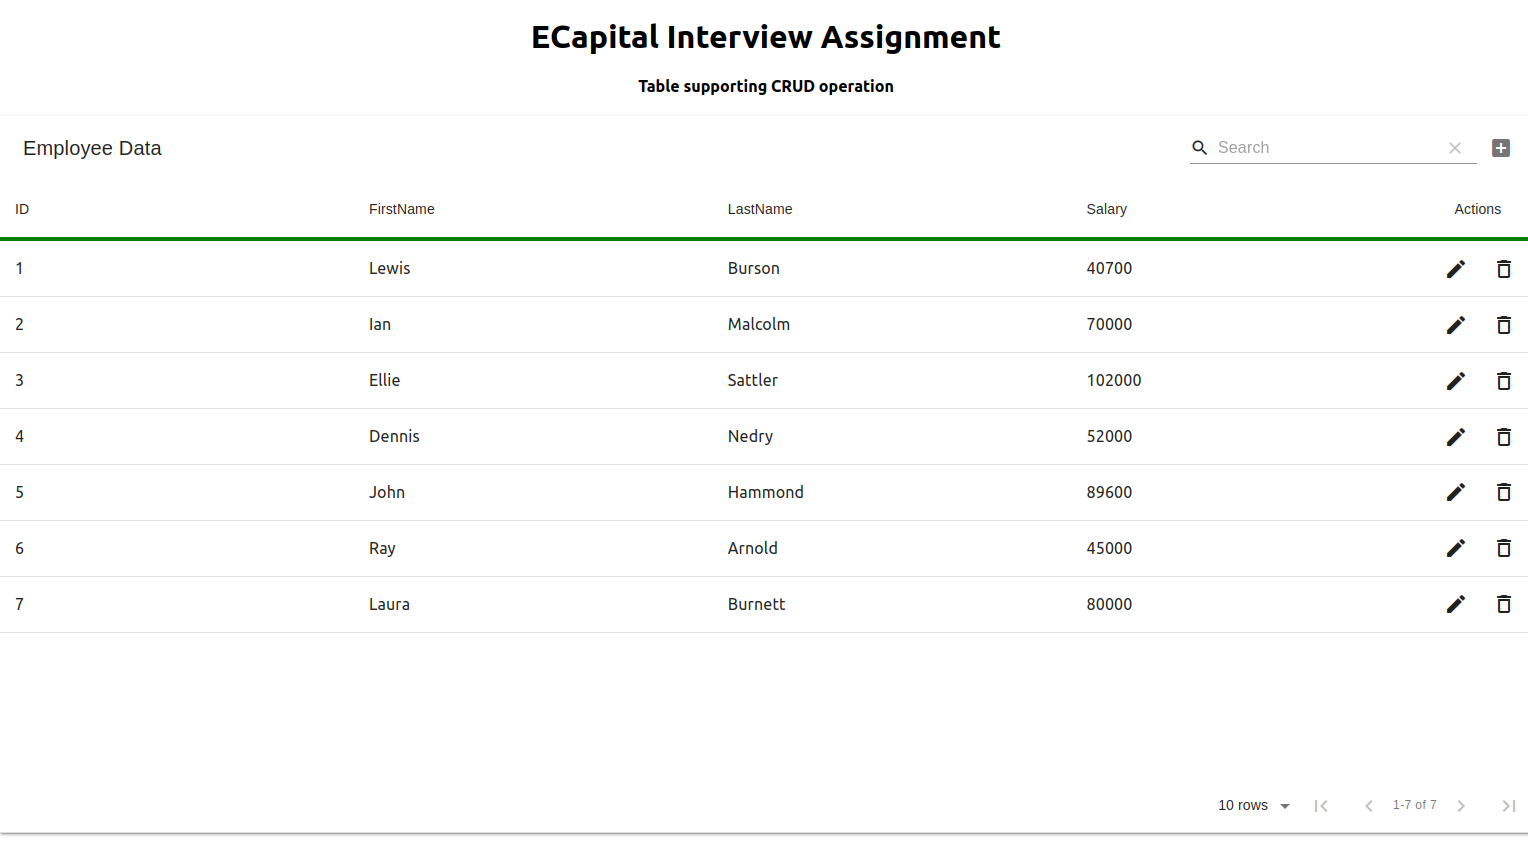
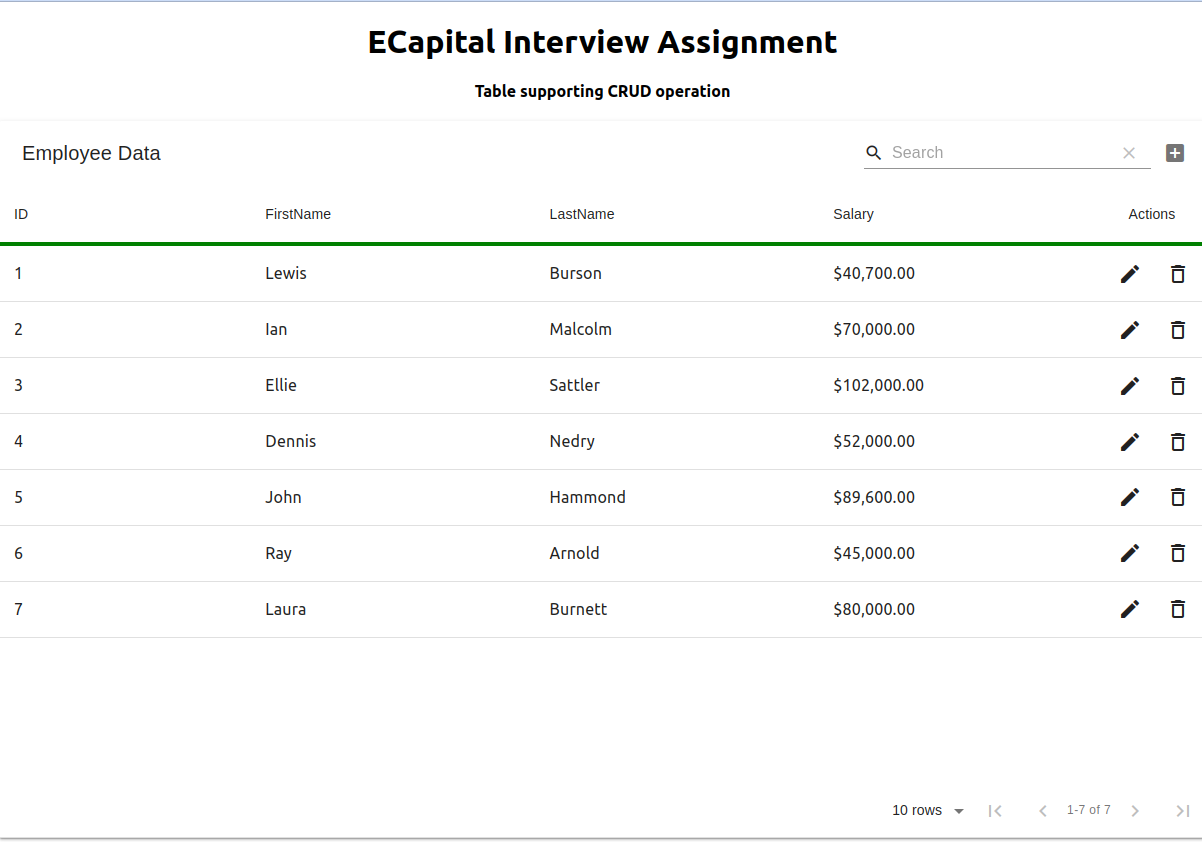
Specify column to display currency format (#5)

diff --git a/client/src/components/EmployeeTable.jsx b/client/src/components/EmployeeTable.jsx
@@ -44,7 +44,7 @@ function EmployeeTable() {
         {title: "ID", field: "id", editable: false},
         {title: "FirstName", field: "firstName"},
         {title: "LastName", field: "lastName"},
-        {title: "Salary", field: "salary"},
+        {title: "Salary", field: "salary", type: "currency", align: "left"},
     ]
 
     // callback function to process update action
